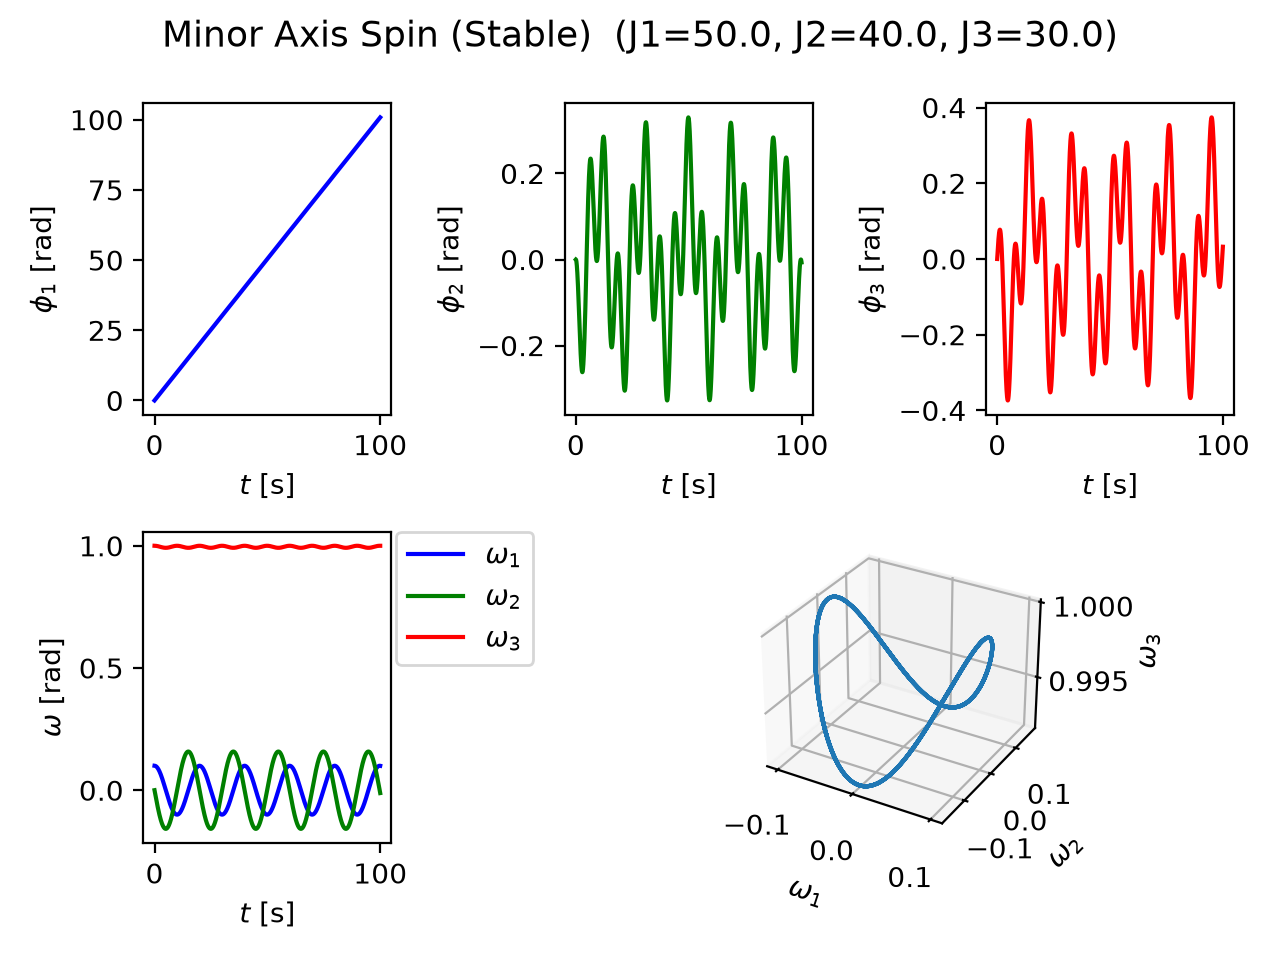
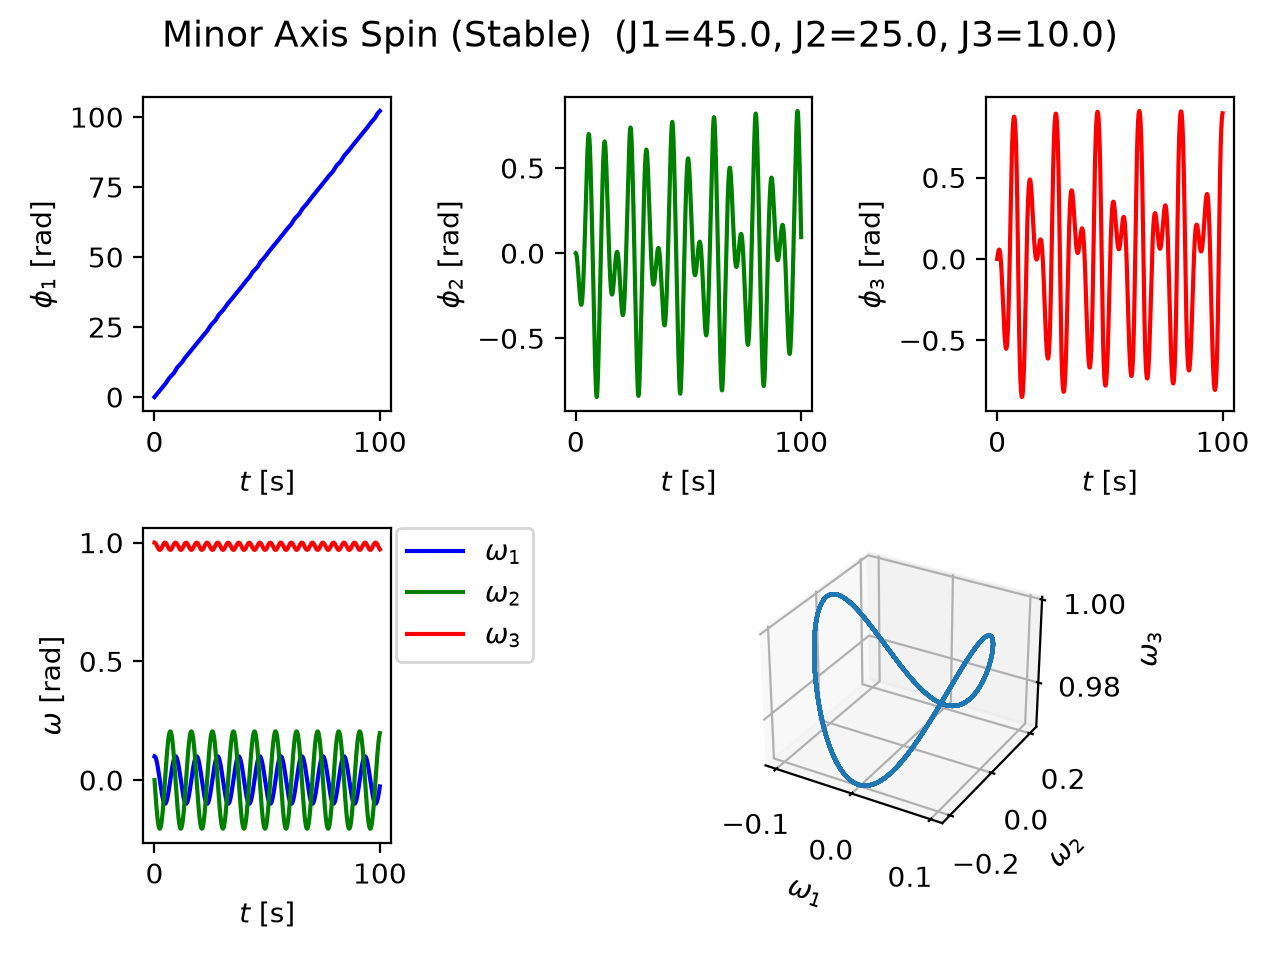
Update spacecraft dynamics simulation and plots

diff --git a/spacecraft_dynamics/Spinsat_Dynamics_and_Attitude.py b/spacecraft_dynamics/Spinsat_Dynamics_and_Attitude.py
@@ -46,13 +46,10 @@ if (__name__ == '__main__'):
     t_list = np.linspace(0.0, 100.0, 30000)
 
     # 慣性モーメントの定義 
-    J1 = 30.0
-    J2 = 50.0
-    J3 = 40.0 
-    # J1 = 30.0
-    # J2 = 50.0
-    # J3 = 40.0 
-
+    J1 = 10.0
+    J2 = 25.0
+    J3 = 45.0 
+   
 
     # 第3軸(スピン軸)の慣性モーメントが最小/最大/中間のどれかを判定
     J_all = [J1, J2, J3]
